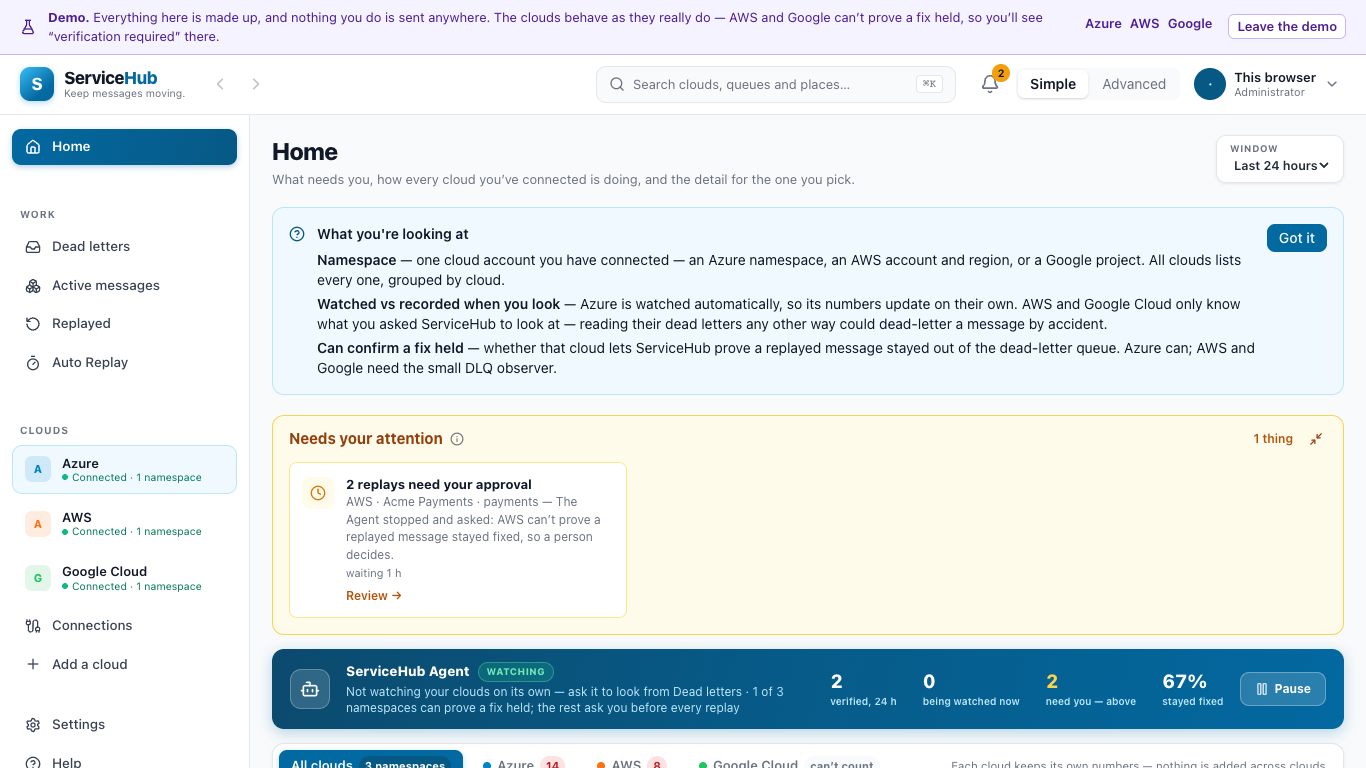
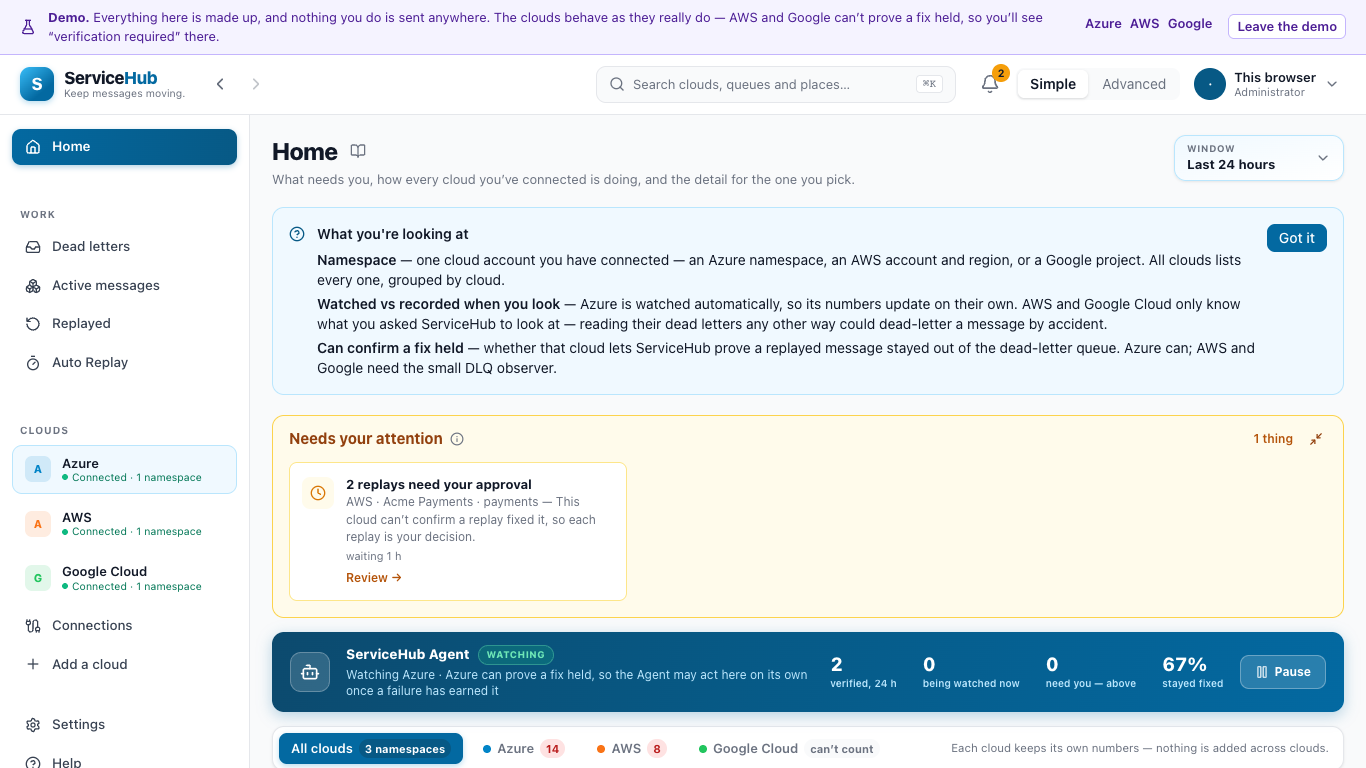
feat: Update changelog and README for 4.1.0 release; refactor guide links and add tests

diff --git a/apps/servicehub/src/content/guides/index.ts b/apps/servicehub/src/content/guides/index.ts
@@ -3,13 +3,7 @@ import { azureGuide } from './azure.generated'
 import { gcpGuide } from './gcp.generated'
 import type { Guide } from './types'
 
+export { guideCloudFor, guideTopic } from './links'
+
 /** The step-by-step guides, one per cloud that has one. Step numbers match across guides, so a screen's (?) lands on the same step in each. */
 export const guides: Readonly<Record<string, Guide>> = { azure: azureGuide, aws: awsGuide, gcp: gcpGuide }
-
-/** `?topic=` value that opens a cloud's guide in Help. */
-export const guideTopic = (cloud: string) => `guide-${cloud}`
-
-/** Which guide a screen's help link opens: the cloud you are working in if it has a guide, else the first one. */
-export function guideCloudFor(selected: string | null): string {
-  return selected !== null && selected in guides ? selected : Object.keys(guides)[0]
-}

diff --git a/apps/servicehub/src/content/guides/links.ts b/apps/servicehub/src/content/guides/links.ts
@@ -1,0 +1,10 @@
+/** Kept apart from `index.ts` so screens can link to a guide without pulling the guide text into the initial chunk. */
+export const guideClouds = ['azure', 'aws', 'gcp'] as const
+
+/** `?topic=` value that opens a cloud's guide in Help. */
+export const guideTopic = (cloud: string) => `guide-${cloud}`
+
+/** Which guide a screen's help link opens: the cloud you are working in if it has a guide, else the first one. */
+export function guideCloudFor(selected: string | null): string {
+  return selected !== null && (guideClouds as readonly string[]).includes(selected) ? selected : guideClouds[0]
+}

diff --git a/apps/servicehub/src/components/overlays/OverlayHost.tsx b/apps/servicehub/src/components/overlays/OverlayHost.tsx
@@ -2,7 +2,7 @@ import { Suspense } from 'react'
 import { useLocation, useSearchParams } from 'react-router-dom'
 import { visibleEntries, type OverlayEntry } from '../../nav/navigation'
 import { OverlayFrame } from './OverlayFrame'
-import { guideTopic } from '../../content/guides'
+import { guideTopic } from '../../content/guides/links'
 import { screenHelpStep } from '../../content/help'
 import { useGuideCloud } from '../help/useGuideCloud'
 import { overlayBodies, overlayCompanionParams, overlayWide, overlayWider } from './registry'

diff --git a/tests/web/unit/content/guideLinks.test.ts b/tests/web/unit/content/guideLinks.test.ts
@@ -1,0 +1,9 @@
+import { describe, expect, it } from 'vitest'
+import { guides } from '@/content/guides'
+import { guideClouds } from '@/content/guides/links'
+
+describe('guide links', () => {
+  it('lists exactly the clouds that have a guide', () => {
+    expect([...guideClouds].sort()).toEqual(Object.keys(guides).sort())
+  })
+})

diff --git a/apps/servicehub/src/components/help/PageHelpLink.tsx b/apps/servicehub/src/components/help/PageHelpLink.tsx
@@ -1,6 +1,6 @@
 import { BookOpen } from 'lucide-react'
 import { Link, useLocation } from 'react-router-dom'
-import { guideTopic } from '../../content/guides'
+import { guideTopic } from '../../content/guides/links'
 import { pageHelpStep } from '../../content/help'
 import { useGuideCloud } from './useGuideCloud'
 

diff --git a/apps/servicehub/src/components/help/useGuideCloud.ts b/apps/servicehub/src/components/help/useGuideCloud.ts
@@ -1,4 +1,4 @@
-import { guideCloudFor } from '../../content/guides'
+import { guideCloudFor } from '../../content/guides/links'
 import { useProviderScope } from '../provider/providerScope'
 
 /** The cloud whose guide a help link should open — the one in scope. */

diff --git a/CHANGELOG.md b/CHANGELOG.md
@@ -1,6 +1,52 @@
 # ServiceHub Changelog
 
-## [Unreleased]
+## [4.1.0] — not yet released (the date is set when the tag is pushed)
+
+> ### ⚠ There is no upgrade path from 4.0.0
+>
+> 4.1.0 is a **from-scratch rewrite**, not an update. It starts with a fresh database (migrations `0001`–`0014`, frozen by
+> ADR-0017) and **cannot open a 4.0.0 SQLite file**. Nothing is migrated: connected clouds,
+> rules, grants, the recovery ledger and audit trail of a 4.0.0 install stay in that install. Run 4.1.0 beside it (different port, different
+> data folder), connect your clouds again, and retire 4.0.0 when you are ready. A 4.0.0 ledger stays readable and offline-verifiable in place (export it from 4.0.0
+> and check it with `scripts/verify-recovery-chain.py`); it does not continue into 4.1.0's new chain. 4.0.0 is frozen, unchanged, in [`archive/servicehub-4.0.0/`](archive/servicehub-4.0.0/) and is
+> still published from `v4.0.x` tags.
+
+### What 4.1.0 is
+
+The same job as 4.0.0 — recover stuck messages in Azure Service Bus, AWS SQS/SNS and GCP Pub/Sub, and prove what was done — in **two Simple pages and
+four read-only Advanced pages** instead of thirty-odd screens.
+
+- **Simple:** Home (one cloud, or *Fleet Overview* for all) with Dead letters, Active messages, Replayed and Auto Replay as tabs. Everything else
+  opens in place as a drawer, modal or panel and lives in the URL.
+- **Advanced:** Overview, Recovery Ledger, Failure Signatures, Agents. Read-only.
+- **One gate for every replay**, human or automatic. It fails closed: a check that cannot run blocks the replay. A replay shows what it will do first.
+- **Autonomy that is earned and stops itself:** the Agent replays alone only for a failure signature it has earned trust on; a circuit breaker and an
+  emergency stop (typed `STOP` / `LIFT`, with a reason, both recorded) halt it. Waiting approvals are approved or declined in one window.
+- **Honest about each cloud:** Azure can confirm a replayed message stayed out of the dead-letter queue. AWS and GCP cannot without the DLQ observer, so
+  they read *"verification required"*, never *"verified"*.
+- **Evidence:** a hash-chained recovery ledger with an offline verifier and *Export evidence*; backup and restore from Settings; credentials encrypted at
+  rest with key rotation.
+- **Tell a person:** bell, toast, and Slack / Teams / generic webhook delivery to every enabled channel, behind an SSRF guard.
+- **Step-by-step guides** for Azure, AWS and Google Cloud, with annotated real screenshots of every control, in the app's Help and in `docs/clouds/`.
+
+### Not in 4.1.0
+
+Left out on purpose; each was a written decision and can return as a tab or panel if you ask:
+
+- **Production replay.** Production namespaces are refused for everyone; there is no elevation.
+- Rehearsal (dry-run) mode, the signature replay worker, recovery ageing, the playbook ledger and prevention rules.
+- The AI companion service (TF-IDF clustering) — failures are grouped by deterministic signatures instead.
+- Slack/Teams *bulk-completed* notifications (4.1.0's bulk operation status differs from 4.0.0's).
+
+### Known limits at this writing
+
+- The release workflow (`publish.yml`) selects the codebase from the tag (`v4.1.x` → repo root, `v4.0.x` → archive) and was proven by running every tag
+  shape locally; it has **not yet run in real GitHub Actions**.
+- Real Slack/Teams delivery has not been exercised against a live workspace (the send path and its test endpoint are covered by tests).
+- The DLQ observer's canary agent, config endpoint and Outcome Card path are not built; the observer's AWS Terraform fix is unapplied and unobserved live.
+  Until it is, AWS/GCP replays stay *"verification required"*.
+
+### Changes since the last entry below (kept as the build log)
 
 ### Changed / Fixed — 2026-09-30 (uncommitted work verified live against AWS)
 

diff --git a/docs/BACKUP-RESTORE.md b/docs/BACKUP-RESTORE.md
@@ -31,7 +31,7 @@ If authentication is on (README → *Deploying it for real*), add your `X-API-KE
 {
   "backupId": "20260929-164649Z",
   "createdAtUtc": "2026-09-29T16:46:49.854615+00:00",
-  "serviceHubVersion": "4.0.0+b1fc64df0fd97969d4d8a47be20cdd18fb81bb12",
+  "serviceHubVersion": "4.1.0+ed4653ea552241e9eef5000e33e3b135e5c41c41",
   "sqlite": { "fileName": "servicehub-dlq.db", "sizeBytes": 299008, "sha256": "a3c734c2…7802cc7" },
   "integrityCheck": "ok",
   "encryptionKeyFingerprint": "sha256:e2e86eb22f771121"
@@ -46,8 +46,8 @@ Each backup is one folder, `backups/<backupId>/`, under the data directory (or `
   automatically** — a broken backup is never left on disk looking like a good one.
 - **`encryptionKeyFingerprint`** — a one-way fingerprint of the key that was active. Compare it before restoring anywhere else.
 
-(`namespaceStore` and a note about a "namespace JSON store" appear in older manifests: 4.0.0 kept connections in a second file. 4.1.0 keeps everything in the
-one database, so `namespaceStore` is `null`.)
+(A real manifest also carries `namespaceStore` — always `null` in 4.1.0 — and a `consistencyNote` that still mentions a "namespace JSON store". That wording is carried
+over from 4.0.0, which kept connections in a second file; 4.1.0 keeps everything in the one database, so there is nothing to be out of step with.)
 
 **Scheduled:** off by default. Set `Backup:ScheduledBackupIntervalHours` (env `Backup__ScheduledBackupIntervalHours`) above 0 and restart. `Backup:RetentionCount`
 (default 14) keeps that many of the newest backups and deletes older ones after each successful backup.

diff --git a/README.md b/README.md
@@ -7,8 +7,8 @@ tamper-evident record of every recovery. It runs as one process with one SQLite 
 to your clouds and, if you add one, to a notification channel (Slack, Teams or a webhook), which gets queue names and
 failure reasons, never message bodies.
 
-> **Status:** this branch is **ServiceHub 4.1.0**, a from-scratch rewrite that is not released yet (`.version` still reads 4.0.0 until it is).
-> The previous release lives, frozen, in [`archive/servicehub-4.0.0/`](archive/servicehub-4.0.0/). See the [changelog](CHANGELOG.md).
+> **Status:** this is **ServiceHub 4.1.0**, a from-scratch rewrite. **There is no upgrade path from 4.0.0** — it starts with a fresh database and cannot open a 4.0.0 file; run it beside 4.0.0 and connect your clouds again.
+> 4.0.0 lives, frozen, in [`archive/servicehub-4.0.0/`](archive/servicehub-4.0.0/). See the [changelog](CHANGELOG.md).
 
 ![Home: what needs you, how each cloud is doing, and the ServiceHub Agent](docs/screenshots/01-home.png)
 
